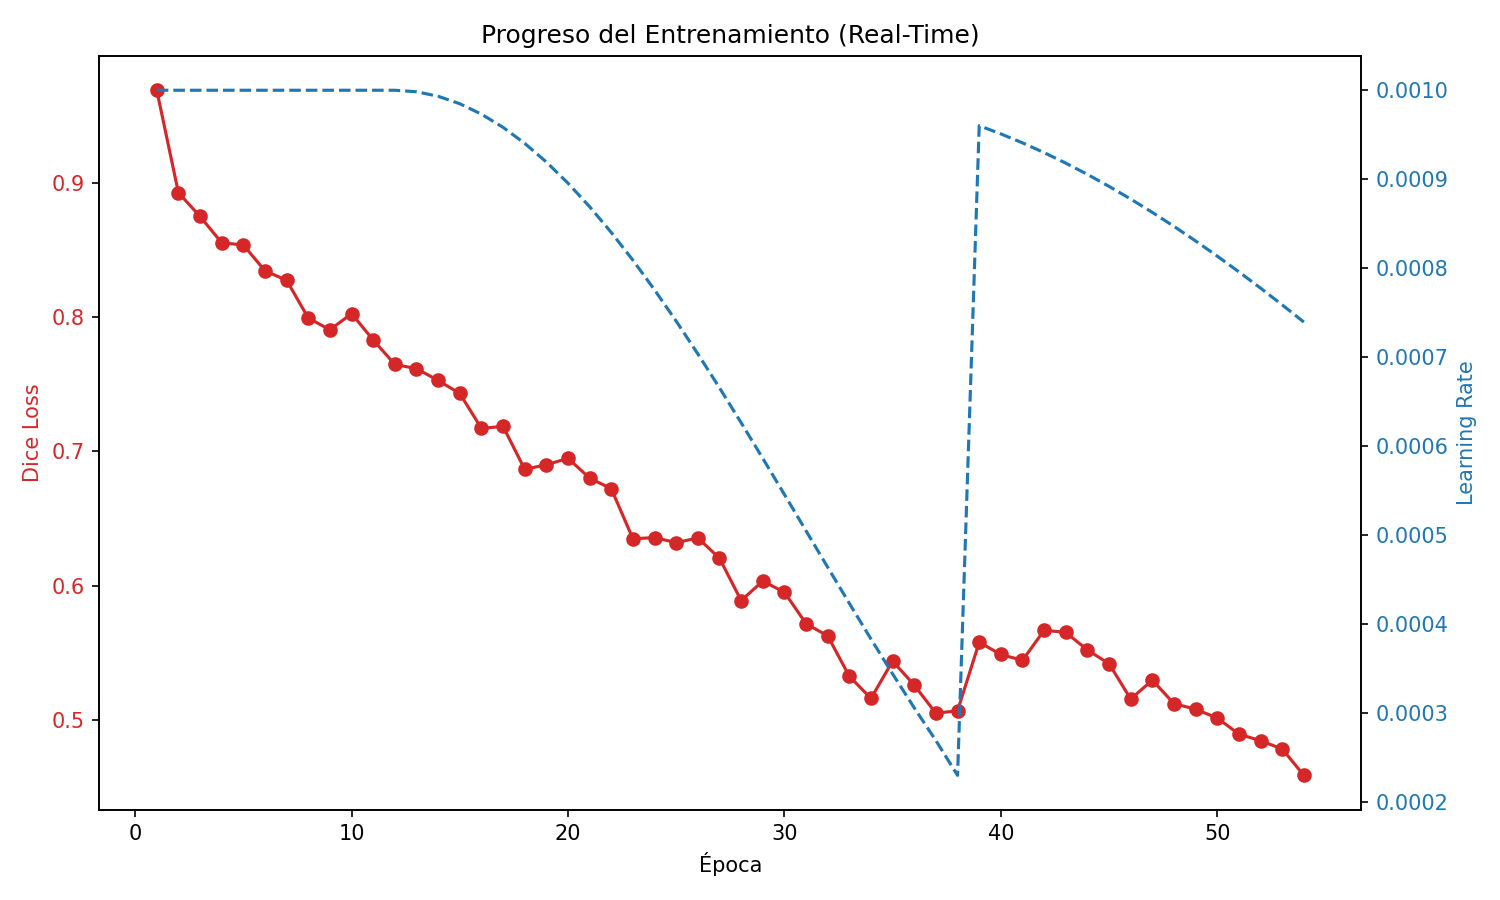
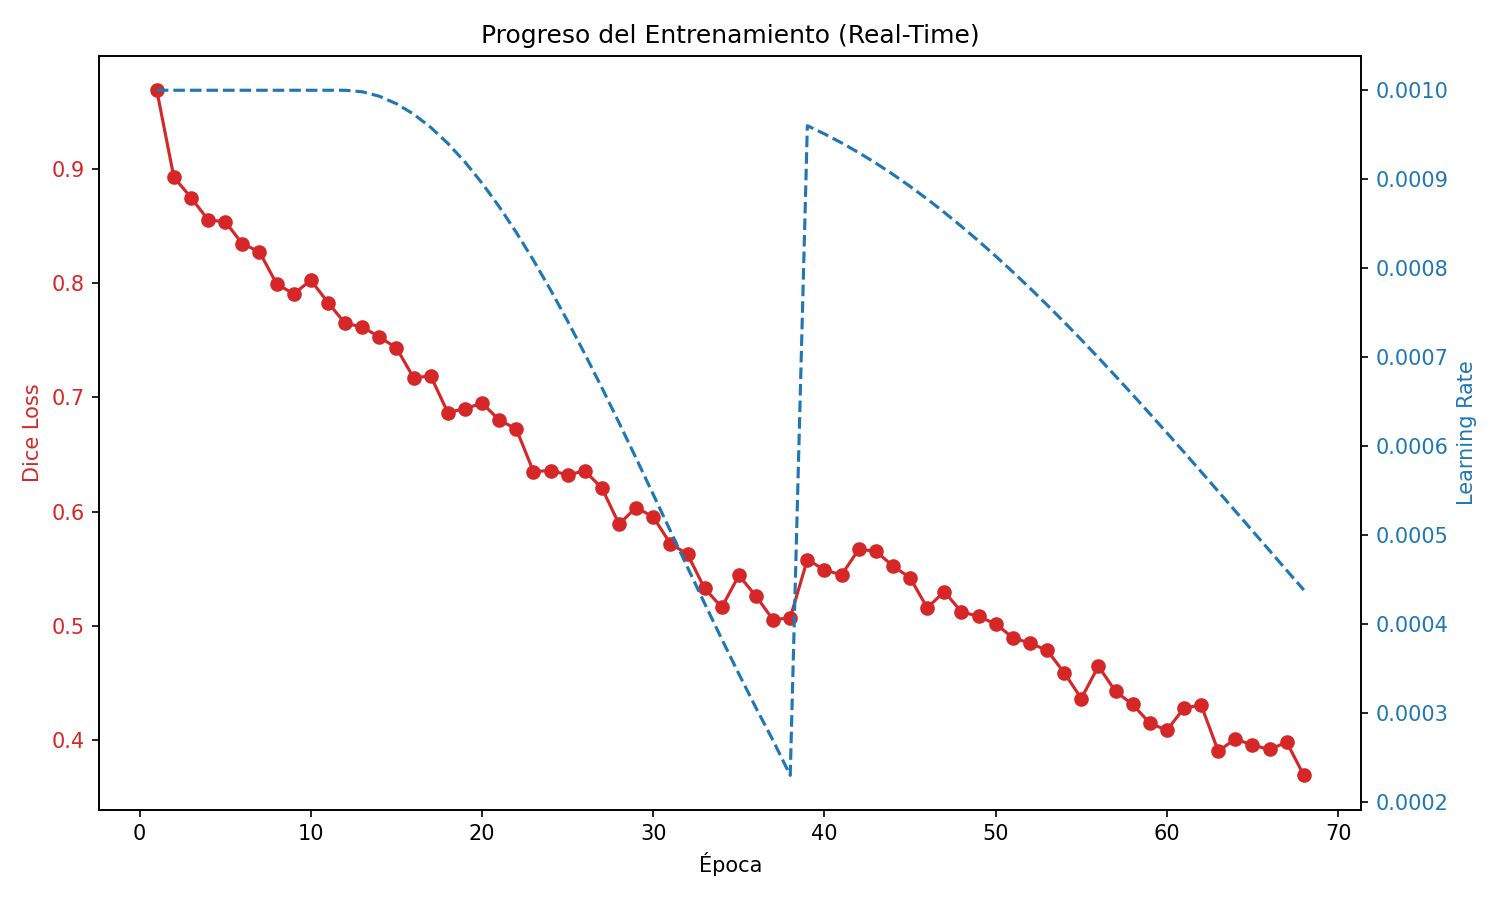
refactor: modularize FEM post-processing logic into a dedicated src module and update inference scripts accordingly

diff --git a/scripts/test_inference.py b/scripts/test_inference.py
@@ -97,41 +97,15 @@ def main():
         return_probabilities=True
     )
     
-    # Binarización directa: la IA decide qué es hueso (Probabilidad > 50%)
-    print("-> Binarizando salida de la IA (Certeza > 50%)...")
-    binary_mask = (prob_volume > 0.5).astype(np.float32)
+    # 2. Generación Geométrica Delegada
+    from src.fem_postprocessing.mesh_generation import process_and_save_dl_mesh
+    print("\n-> Delegando reconstrucción geométrica al motor FEM Post-Processing...")
+    process_and_save_dl_mesh(prob_volume, DIR_PACIENTE, DIR_SALIDA)
     
-    # 4. Marching Cubes y STL (Optimizado)
-    print("-> Generando Malla 3D...")
-    dcm_path = encontrar_dicom_valido(DIR_PACIENTE)
-    T = extract_affine_matrix(dcm_path)
-    spacing = tuple(np.linalg.norm(T[i, :3]) for i in range(3))
-    
-    verts, faces, normals, _ = marching_cubes(
-        volume=binary_mask, level=0.5, spacing=spacing, step_size=2
-    )
-    
-    mesh = trimesh.Trimesh(vertices=verts, faces=faces, vertex_normals=normals)
-    
-    # 5. Limpieza de ruido (Componentes Conexos)
-    print("-> Limpiando ruido (conservando solo componentes mayores)...")
-    # Filtramos por volumen: nos quedamos con lo que sea mayor al 5% del componente más grande
-    components = mesh.split(only_watertight=False)
-    if len(components) > 1:
-        max_vol = max(c.area for c in components) # Usamos área porque el volumen puede ser 0 en mallas no cerradas
-        mesh = trimesh.util.concatenate([c for c in components if c.area > max_vol * 0.1])
-        print(f"   Reducción de fragmentos: {len(components)} -> {len(mesh.faces)} caras finales")
-
-    # 6. Suavizado y exportación
-    print("-> Suavizado de Taubin...")
-    trimesh.smoothing.filter_taubin(mesh, iterations=10)
-    
-    out_file = os.path.join(DIR_SALIDA, f"resultado_ep{EPOCA}_Paciente_52_limpio.stl")
-    mesh.export(out_file)
-    
-    print(f"\n[✓] ¡ÉXITO! Modelo generado en: {out_file}")
-    print(f"    Tamaño: {os.path.getsize(out_file)/(1024*1024):.1f} MB")
-    print(f"    Vértices: {len(mesh.vertices)}")
+    out_file = os.path.join(DIR_SALIDA, "hueso_completo_FEM.stl")
+    if os.path.exists(out_file):
+        print(f"\n[✓] ¡ÉXITO! Modelo generado en: {out_file}")
+        print(f"    Tamaño: {os.path.getsize(out_file)/(1024*1024):.1f} MB")
 
 if __name__ == "__main__":
     main()

diff --git a/gui_app.py b/gui_app.py
@@ -23,7 +23,7 @@ ctk.set_appearance_mode("Dark")
 # Importaciones locales del pipeline
 sys.path.append(os.path.abspath(os.path.dirname(__file__)))
 from src.neural_manifold.inference import predict_volume_from_dicom
-from src.neural_manifold.segment_pde import process_and_save_dl_mesh
+from src.fem_postprocessing.mesh_generation import process_and_save_dl_mesh
 
 def render_latex_to_ctk_image(latex_str, text_color="#00d2ff", font_size=14, width=300, height=80):
     """Renderiza una fórmula LaTeX a una imagen transparente usando Matplotlib."""

diff --git a/src/fem_postprocessing/mesh_generation.py b/src/fem_postprocessing/mesh_generation.py
@@ -4,7 +4,7 @@ from skimage.filters import threshold_otsu
 import trimesh
 import os
 import pydicom
-from src.tensor_pde.mesh_repair import optimize_mesh_quality, seal_geometry
+from src.fem_postprocessing.topology_repair import optimize_mesh_quality, seal_geometry
 from src.tensor_pde.io_module import extract_affine_matrix, assemble_tensor_and_hu
 
 def process_and_save_dl_mesh(prob_volume: np.ndarray, dicom_dir: str, out_dir: str) -> None:

diff --git a/informe_avance.md b/informe_avance.md
@@ -96,6 +96,9 @@ La eficacia matemática de esta maniobra quedó demostrada de inmediato: al reto
 | **45** | 0.541 | -0.016 |
 | **50** | 0.501 | -0.040 |
 | **55** | 0.436 | -0.065 |
+| **60** | 0.408 | -0.028 |
+| **64** | 0.400 | -0.008 |
+| **68** | 0.369 | -0.031 |
 
 ![Curva de Convergencia V2](assets_informe/loss_curve.png)
 
@@ -107,6 +110,13 @@ La eficacia matemática de esta maniobra quedó demostrada de inmediato: al reto
 ## 4. Fase 3: Integración Biomecánica y Elementos Finitos (FEM)
 El software traduce la segmentación en un modelo físico heterogéneo listo para COMSOL Multiphysics:
 
+### 4.1 Arquitectura Modular de Post-Procesamiento (`fem_postprocessing`)
+Para garantizar la estricta integridad matemática requerida por los solvers FEM, se refactorizó la arquitectura del código, aislando completamente la inferencia probabilística (IA) de la reparación geométrica (Física):
+*   Se centralizó toda la lógica en el nuevo módulo `src/fem_postprocessing/`.
+*   Tanto `test_inference.py` como la Interfaz Gráfica (`gui_app.py`) ahora delegan la generación de la malla, umbralización de Otsu, limpieza de islas y suavizado de Taubin al script dedicado `mesh_generation.py`.
+*   Esta separación de conceptos (*Separation of Concerns*) prepara el terreno para acoplar algoritmos avanzados de remallado isotrópico sin contaminar el entorno de Deep Learning.
+
+### 4.2 Flujo Teórico de Elementos Finitos
 1.  **Sellado Watertight:** Garantiza que $\partial \Omega$ sea una 2-variedad cerrada (Teorema de la Frontera).
 2.  **Mapeo de Young ($E$):** Basado en la Ley de Wolff:
     $$ \rho = a \times \text{HU} + b \implies E = C \times \rho^n $$
